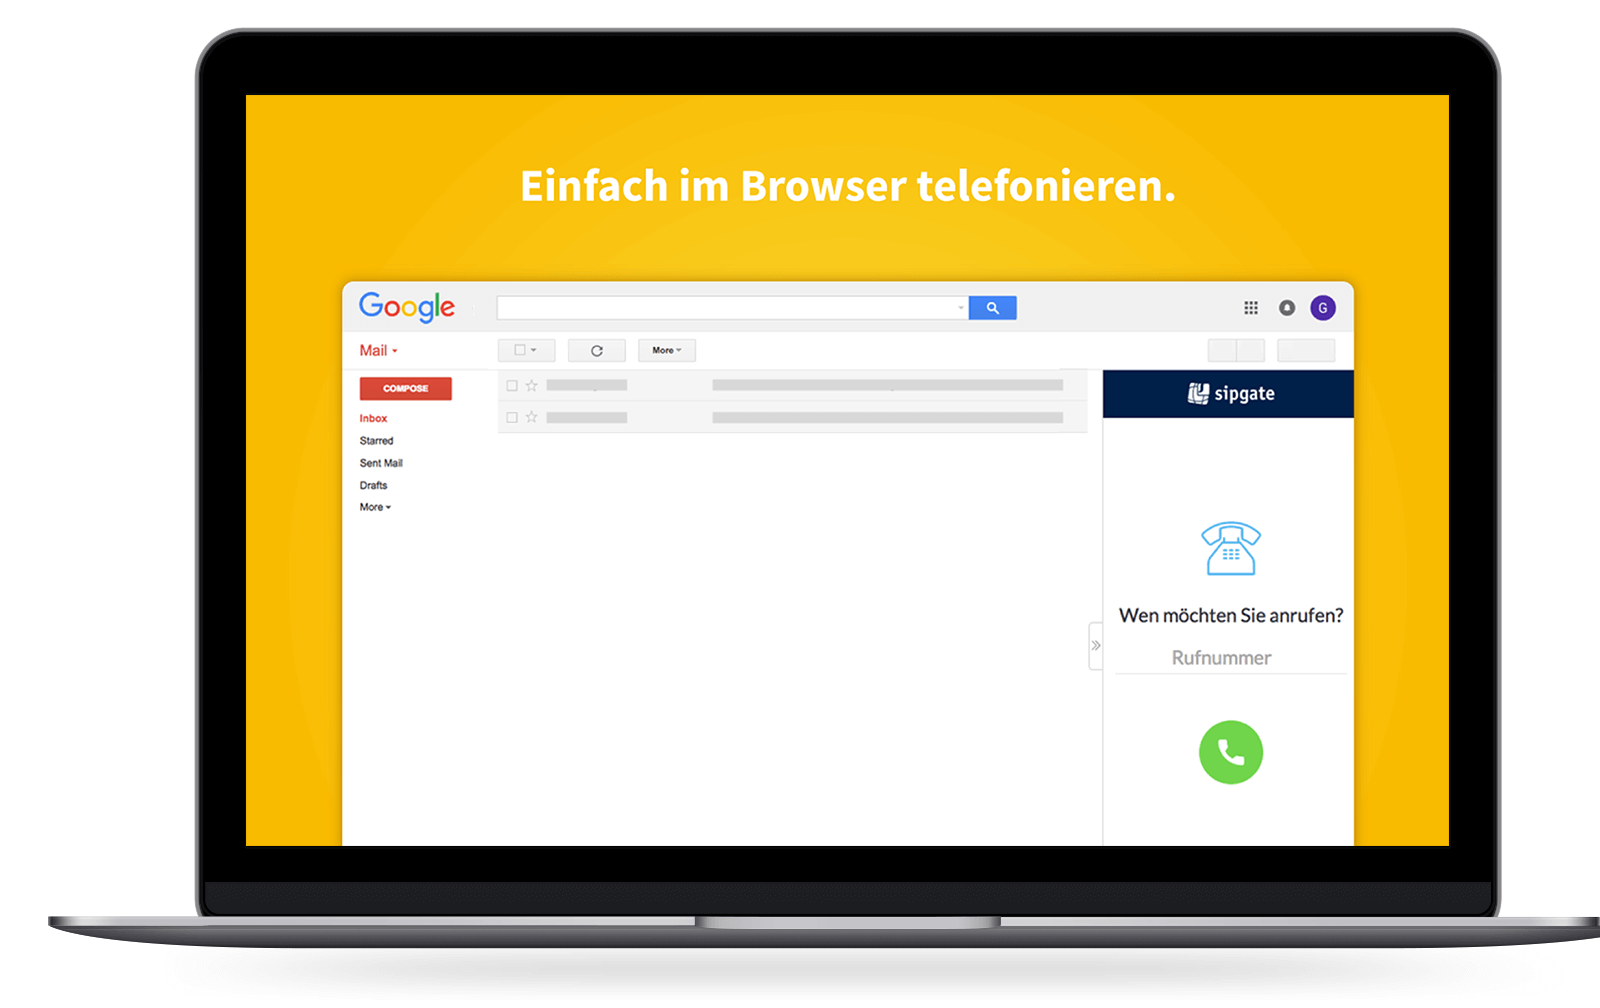
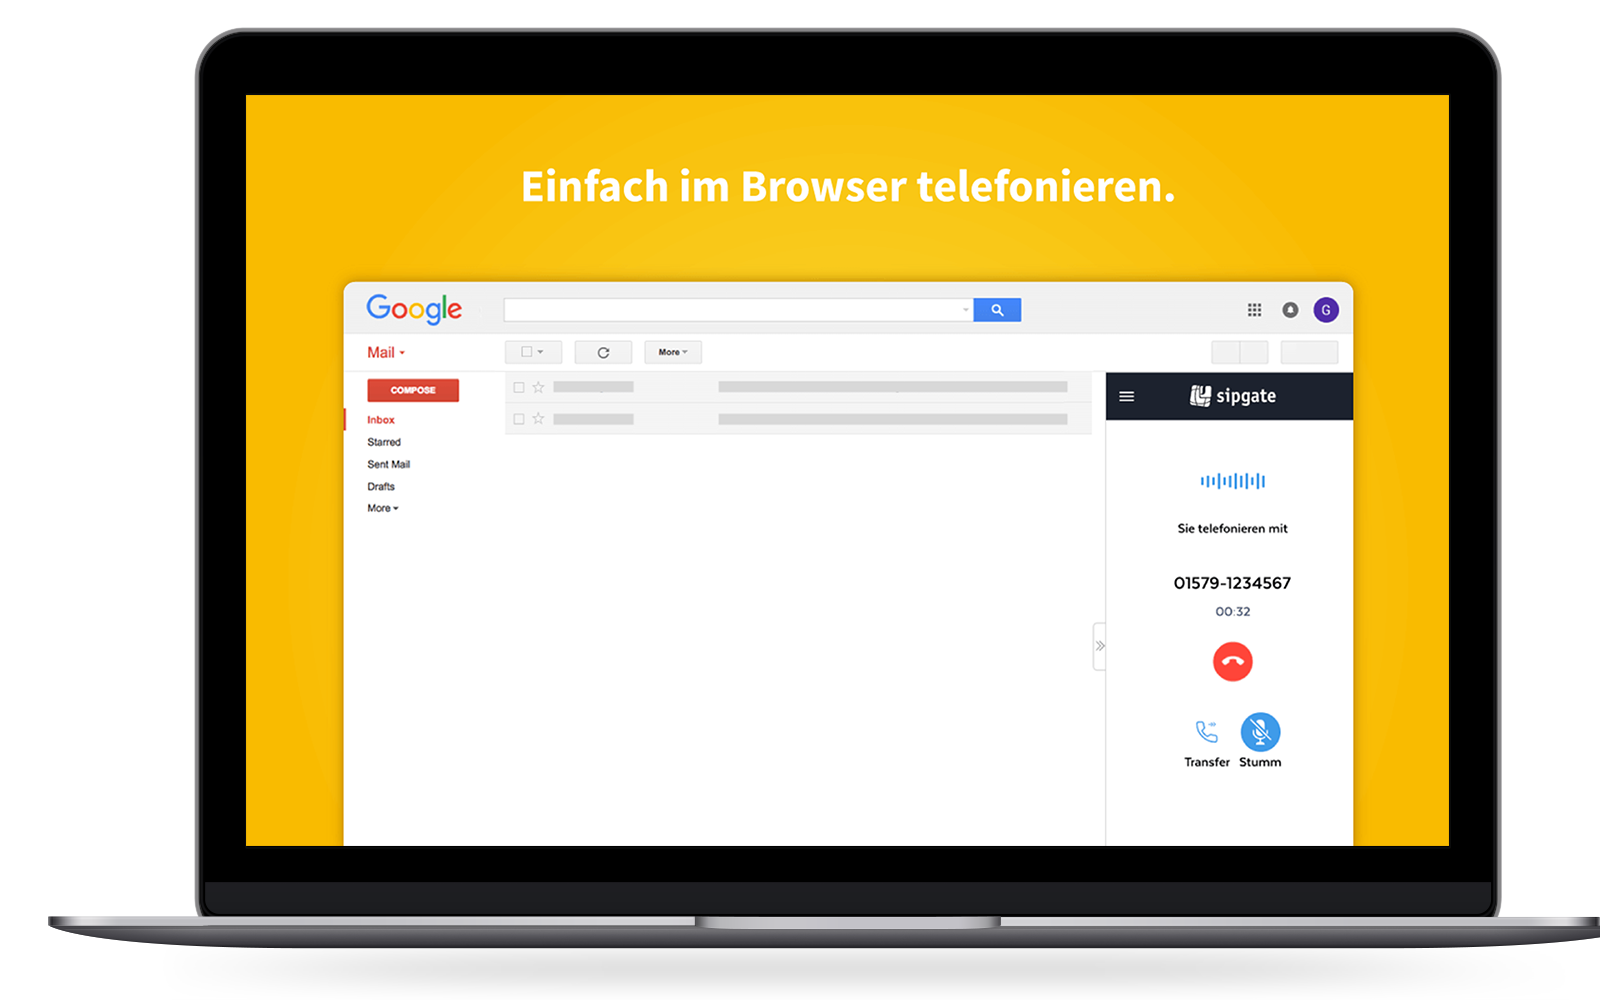
adds new pictures to case 2

diff --git a/content/portfolio.html b/content/portfolio.html
@@ -155,6 +155,8 @@
           <div class="chocolat-parent" data-chocolat-title="G Suite für sipgate team">
             <a class="cta chocolat-image" href="../img/portfolio/gsuite/inbox.png" title="Webphone Inbox View">Zum Projekt</a>
             <a class="chocolat-image" href="../img/portfolio/gsuite/call-back.png" title="Anrufer direkt zurückrufen"></a>
+            <a class="chocolat-image" href="../img/portfolio/gsuite/transfer.png" title="Anrufer direkt zu Kollegen durchstellen"></a>
+            <a class="chocolat-image" href="../img/portfolio/gsuite/anrufliste.png" title="Alle Anrufe auf einen Blick"></a>
           </div>
         </div>
       </div>
